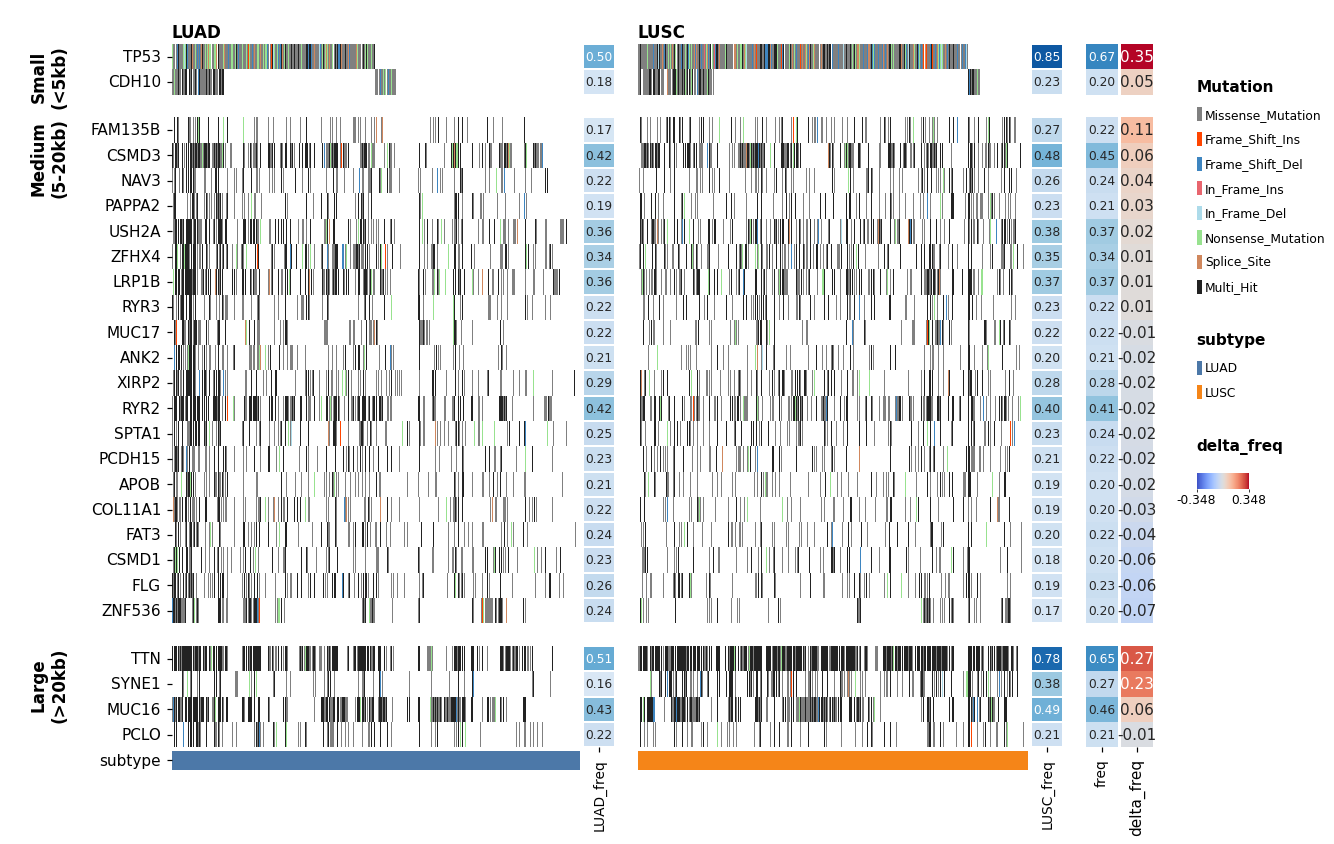
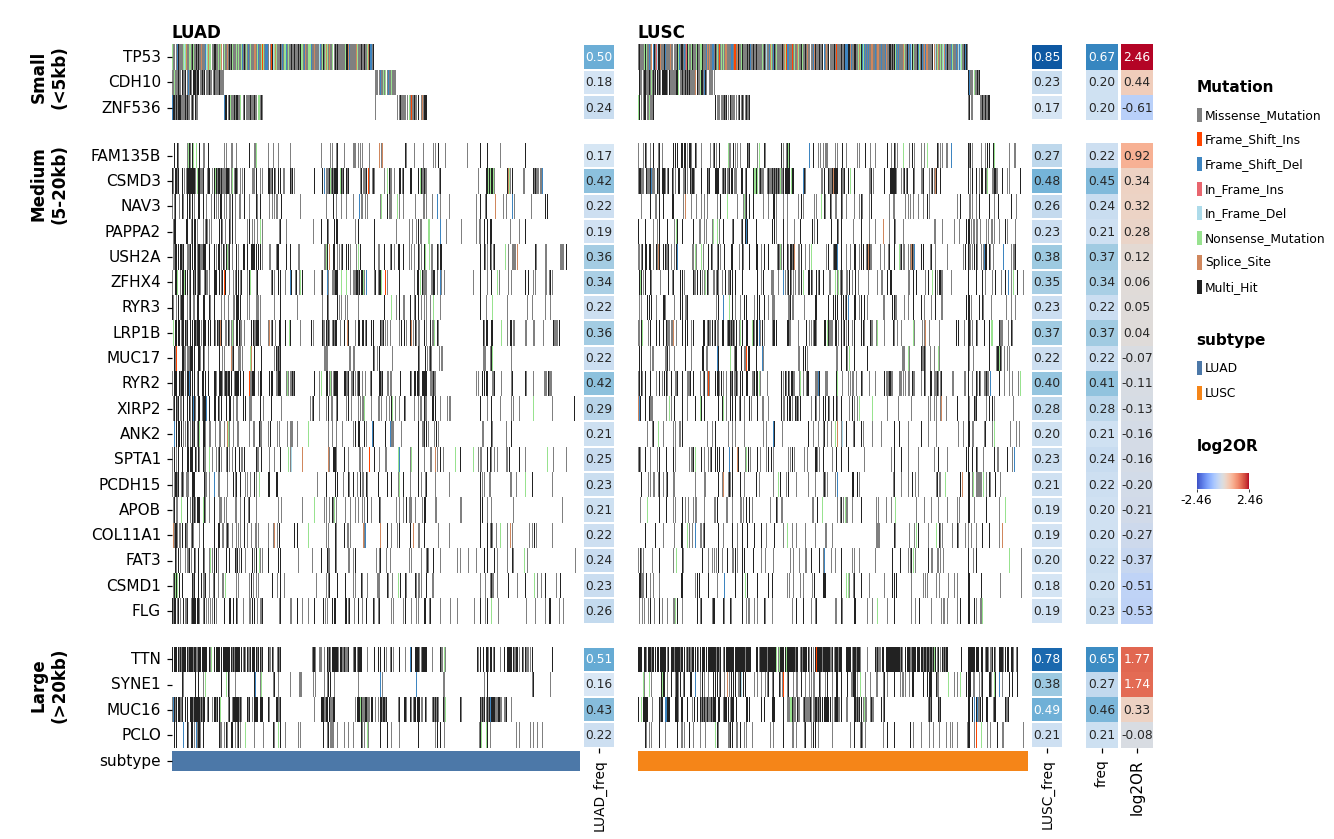
docs(demo): Fisher log2OR enrichment in exon-size oncoplot
Replace the raw delta_freq strip with a Fisher-exact log2 odds ratio
(via mutation_enrichment_test), which accounts for sample counts so
low-frequency genes are not over-weighted; only 4/26 genes are
significant after FDR, which the absolute frequency difference hid.

Match the annotation font to the freq columns (NumericTrack defaulted
to a larger size than FreqTrack). Demo now runs fully offline.

Changed region(s): [[0.0, 0.031, 0.9835, 0.9917], [0.8913, 0.4029, 0.9528, 0.4958]]

diff --git a/scripts/demo_exon_size_grouping.py b/scripts/demo_exon_size_grouping.py
@@ -1,17 +1,19 @@
 """Demo: group genes by exon size in a grouped oncoplot (real TCGA lung data).
 
 Takes the bundled TCGA lung fixture, keeps recurrently-mutated genes
-(freq >= 0.2), looks up each gene's exon size (longest-transcript length) from
-Ensembl BioMart via ``PivotTable.add_exon_size``, bins genes into Small / Medium
-/ Large, and renders a grouped oncoplot: rows sectioned by size band, columns by
-subtype, each subtype carrying its own per-section frequency strip plus an
-overall freq bar. Within each band, genes are ordered by subtype enrichment
-(``delta_freq`` = LUSC_freq - LUAD_freq).
+(freq >= 0.2), looks up each gene's exon size (canonical-transcript length) from
+the bundled Ensembl cache via ``PivotTable.add_exon_size``, bins genes into
+Small / Medium / Large, and renders a grouped oncoplot: rows sectioned by size
+band, columns by subtype, each subtype carrying its own per-section frequency
+strip plus an overall freq bar. Within each band, genes are ordered by subtype
+enrichment — a Fisher-exact log2 odds ratio (LUSC vs LUAD) from
+``PivotTable.mutation_enrichment_test``, which (unlike a raw freq difference)
+accounts for sample counts so low-frequency genes are not over-weighted.
 
 This separates the large "mutated-because-they're-huge" passenger genes (TTN,
 MUC16, SYNE1, ...) from compact recurrently-mutated drivers (TP53, ...).
 
-Needs network (Ensembl BioMart). Run from the project root:
+Runs offline (gene sizes are bundled). Run from the project root:
     uv run python scripts/demo_exon_size_grouping.py
 """
 
@@ -23,6 +25,7 @@ import matplotlib
 
 matplotlib.use("Agg")  # headless rendering
 
+import numpy as np
 import pandas as pd
 
 import pymaftools
@@ -44,18 +47,27 @@ def main() -> None:
         table.feature_metadata["freq"] >= FREQ_THRESHOLD
     ].tolist()
 
-    # exon size for just these genes (targeted BioMart fetch, no genome-wide dump)
+    # exon size for just these genes (reads the bundled cache; no network)
     sub = table.subset(features=genes).add_exon_size()
     sub.feature_metadata["size_group"] = pd.cut(
         sub.feature_metadata["exon_size"], bins=SIZE_BINS, labels=SIZE_LABELS
     )
-    # Subtype enrichment per gene: positive => mutated more often in LUSC.
-    sub.feature_metadata["delta_freq"] = (
-        sub.feature_metadata["LUSC_freq"] - sub.feature_metadata["LUAD_freq"]
+    # Subtype enrichment per gene as a Fisher-exact log2 odds ratio (positive =>
+    # enriched in LUSC). Using the test (not a raw freq difference) weights by
+    # sample counts, so a small shift in a rare gene is not mistaken for signal.
+    enr = sub.mutation_enrichment_test(
+        group_col="subtype", group1="LUAD", group2="LUSC", method="fisher"
+    )
+    counts = enr[["LUAD_True", "LUAD_False", "LUSC_True", "LUSC_False"]].astype(float)
+    # Haldane-corrected (+0.5) so genes with a zero cell stay finite.
+    luad_odds = (counts["LUAD_True"] + 0.5) / (counts["LUAD_False"] + 0.5)
+    lusc_odds = (counts["LUSC_True"] + 0.5) / (counts["LUSC_False"] + 0.5)
+    sub.feature_metadata["log2OR"] = np.log2(lusc_odds / luad_odds).reindex(
+        sub.feature_metadata.index
     )
     # Bands contiguous, Small -> Medium -> Large (compact recurrent genes on top,
     # large passenger-prone genes below); within each band, LUSC-enriched on top.
-    sub = sub.sort_features(by=["size_group", "delta_freq"], ascending=[True, False])
+    sub = sub.sort_features(by=["size_group", "log2OR"], ascending=[True, False])
     # Waterfall samples within each subtype by the Small band (top rows, TP53/CDH10).
     n_small = int((sub.feature_metadata["size_group"] == SIZE_LABELS[0]).sum())
     sub = sub.sort_samples_by_group(
@@ -66,13 +78,16 @@ def main() -> None:
         OncoPlot(sub, figsize=(15, 9))
         .main(yticklabels=True, linewidths=0)
         .add_freq(side="right", freq_columns=["freq"], annot=True, linewidths=0)
-        # delta_freq strip: diverging coolwarm => symmetric-around-0 scale, kept
+        # log2OR strip: diverging coolwarm => symmetric-around-0 scale, kept
         # separate from the Blues 0-1 freq columns (different value range).
+        # annotation_font_size=8 matches the FreqTrack annotation size (NumericTrack
+        # defaults to 10, which otherwise prints visibly larger than the freq cols).
         .add_feature_annotation(
-            ["delta_freq"],
+            ["log2OR"],
             side="right",
-            cmap_dict={"delta_freq": "coolwarm"},
+            cmap_dict={"log2OR": "coolwarm"},
             annotate=True,
+            annotation_font_size=8,
             linewidths=0,
         )
         .add_sample_annotation(